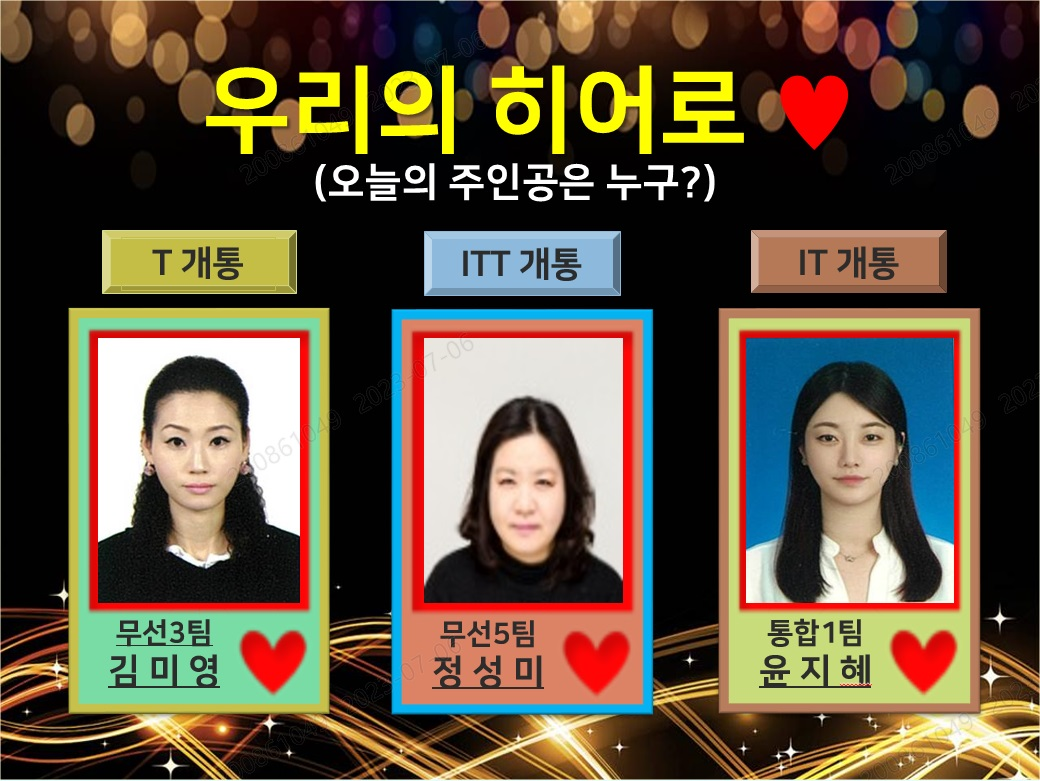
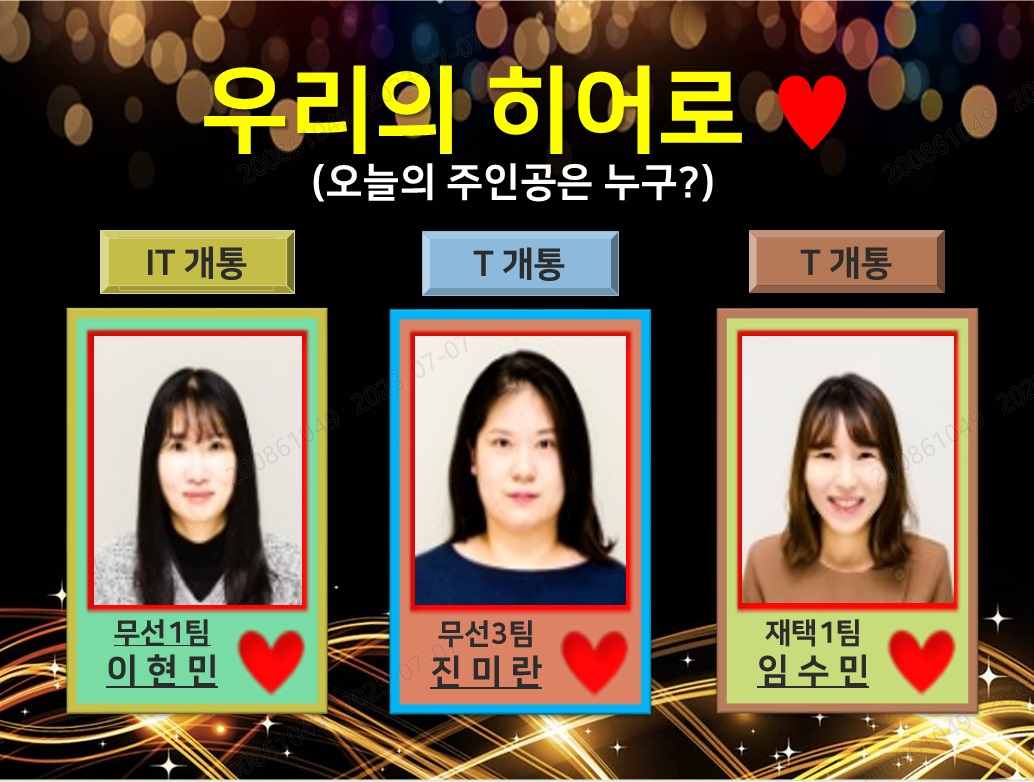
7월7일 세일즈 업데이트

diff --git a/html/board.html b/html/board.html
@@ -51,7 +51,7 @@
    <img class="worktime" src="../imgfolder/근무/세일즈 전광판_센터실적.jpg" >
    <img class="worktime" src="../imgfolder/근무/세일즈 전광판_팀실적.jpg" >
    <img class="worktime" src="../imgfolder/근무/세일즈 전광판_전일개통인원-1.jpg" >
-   
+   <img class="worktime" src="../imgfolder/근무/세일즈 전광판_전일개통인원-2.jpg" >
    
       
    
